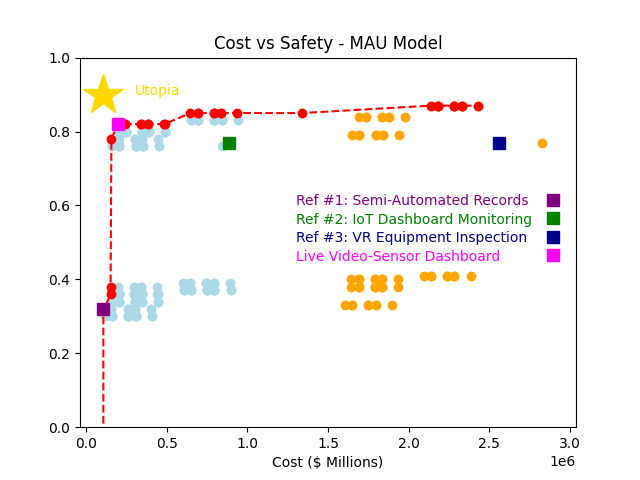
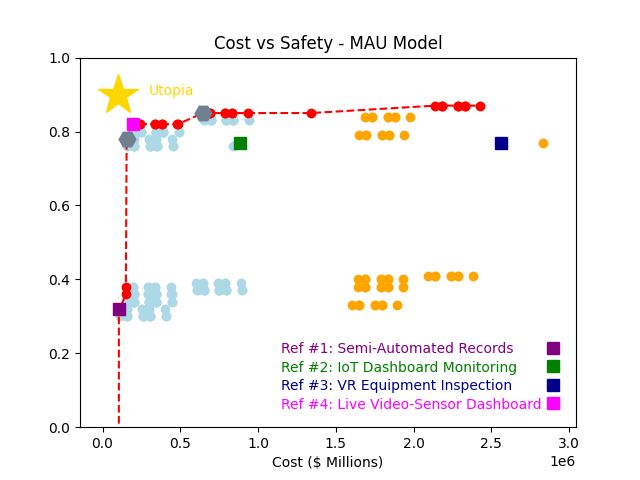
Adding hexagons to the tradespace.

diff --git a/OS_14/pythonTradeSafety.py b/OS_14/pythonTradeSafety.py
@@ -52,21 +52,25 @@ plt.plot(100000, 0.90, marker='*', markersize=30, color="gold")
 #Plot some reference architectures
 #First Architecture, Semi-Automated Records
 plt.plot(imported_df["Cost"][0], imported_df["Safety"][0], marker='s', markersize=8, color="purple")
-plt.plot(2900000, 0.615, marker='s', markersize=8, color="purple")
-plt.text(1300000, 0.60, "Ref #1: Semi-Automated Records", color="purple")
+plt.plot(2900000, 0.215, marker='s', markersize=8, color="purple")
+plt.text(1150000, 0.20, "Ref #1: Semi-Automated Records", color="purple")
 
 #Second Architecture, IoT Dashboard Monitoring
 plt.plot(imported_df["Cost"][1], imported_df["Safety"][1], marker='s', markersize=8, color="green")
-plt.plot(2900000, 0.565, marker='s', markersize=8, color="green")
-plt.text(1300000, 0.55, "Ref #2: IoT Dashboard Monitoring", color="green")
+plt.plot(2900000, 0.165, marker='s', markersize=8, color="green")
+plt.text(1150000, 0.15, "Ref #2: IoT Dashboard Monitoring", color="green")
 
 #Third Architecture, VR Equipment Inspection
 plt.plot(imported_df["Cost"][2], imported_df["Safety"][2], marker='s', markersize=8, color="darkblue")
-plt.plot(2900000, 0.515, marker='s', markersize=8, color="darkblue")
-plt.text(1300000, 0.50, "Ref #3: VR Equipment Inspection", color="darkblue")
+plt.plot(2900000, 0.115, marker='s', markersize=8, color="darkblue")
+plt.text(1150000, 0.10, "Ref #3: VR Equipment Inspection", color="darkblue")
 
 plt.plot(imported_df["Cost"][38], imported_df["Safety"][38], marker='s', markersize=8, color="magenta")
-plt.plot(2900000, 0.465, marker='s', markersize=8, color="magenta")
-plt.text(1300000, 0.45, "Live Video-Sensor Dashboard", color="magenta")
+plt.plot(2900000, 0.065, marker='s', markersize=8, color="magenta")
+plt.text(1150000, 0.05, "Ref #4: Live Video-Sensor Dashboard", color="magenta")
+
+#Interesting Safety architectures. 
+plt.plot(imported_df["Cost"][102], imported_df["Safety"][102], marker='H', markersize=12, color="slategrey")
+plt.plot(imported_df["Cost"][70], imported_df["Safety"][70], marker='H', markersize=12, color="slategrey")
 
 plt.savefig('figure.png') # Save the figure to a file

diff --git a/OS_14/pythonTradeReliability.py b/OS_14/pythonTradeReliability.py
@@ -67,6 +67,11 @@ plt.text(1300000, 0.10, "Ref #3: VR Equipment Inspection", color="darkblue")
 
 plt.plot(imported_df["Cost"][38], imported_df["Reliability"][38], marker='s', markersize=8, color="magenta")
 plt.plot(2900000, 0.065, marker='s', markersize=8, color="magenta")
-plt.text(1300000, 0.05, "Live Video-Sensor Dashboard", color="magenta")
+plt.text(1300000, 0.05, "Ref #4: Live Video-Sensor Dashboard", color="magenta")
+
+#Interesting Reliability architectures. 
+plt.plot(imported_df["Cost"][146], imported_df["Reliability"][146], marker='H', markersize=12, color="slategrey")
+plt.plot(imported_df["Cost"][3], imported_df["Reliability"][3], marker='H', markersize=12, color="slategrey")
+
 
 plt.savefig('figure.png') # Save the figure to a file
